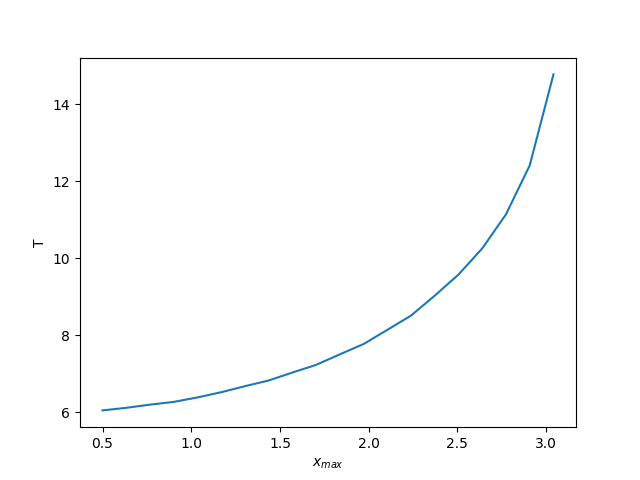
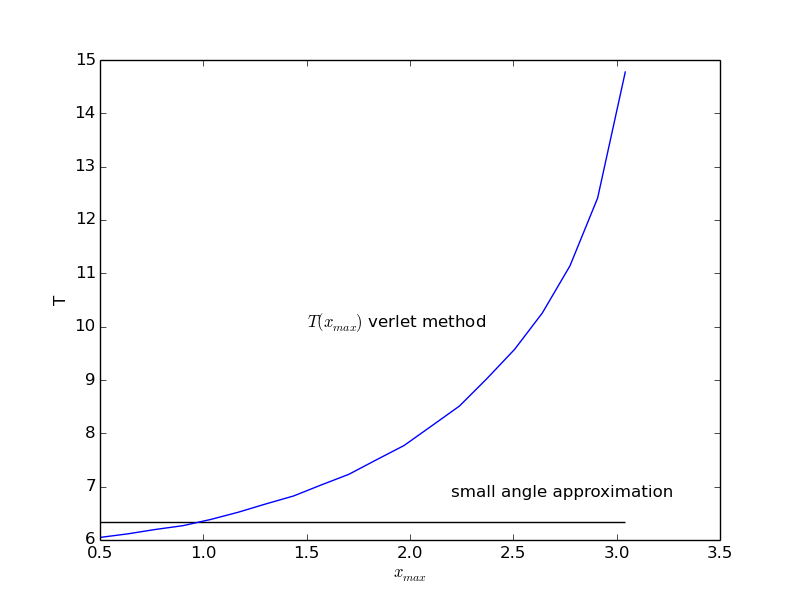
final changes

diff --git a/exercise2/ideal_pendulum.py b/exercise2/ideal_pendulum.py
@@ -33,21 +33,27 @@ def get_T(x, tau):
     return np.mean(Ts)
 
 
-time_steps = 1000000
-tau = 0.0001
+time_steps = 10000
+tau = 0.01
+l = 10
 
 x_maxs = np.linspace(0.5, np.pi - 0.1, 20)
 Ts = []
 for x_max in x_maxs:
-    x, T = pendulum(time_steps, tau, x_max, l=10)
+    x, T = pendulum(time_steps, tau, x_max, l=l)
     plt.plot(np.linspace(0, time_steps * tau, time_steps), x)
     Ts.append(T)
 
 plt.savefig("ideal_pendulum.png")
 plt.close()
 
+T_0 = 2 * np.pi * np.sqrt(l / 9.81)
+
 plt.plot(x_maxs, Ts)
+plt.hlines(T_0, 0.5, np.pi - 0.1)
 plt.xlabel(r"$x_{max}$")
 plt.ylabel("T")
+plt.text(1.5, 10, r"$T(x_{max})$ verlet method")
+plt.text(2.2, 6.8, "small angle approximation")
 plt.savefig("T_over_x_pendulum.png")
 plt.close()
